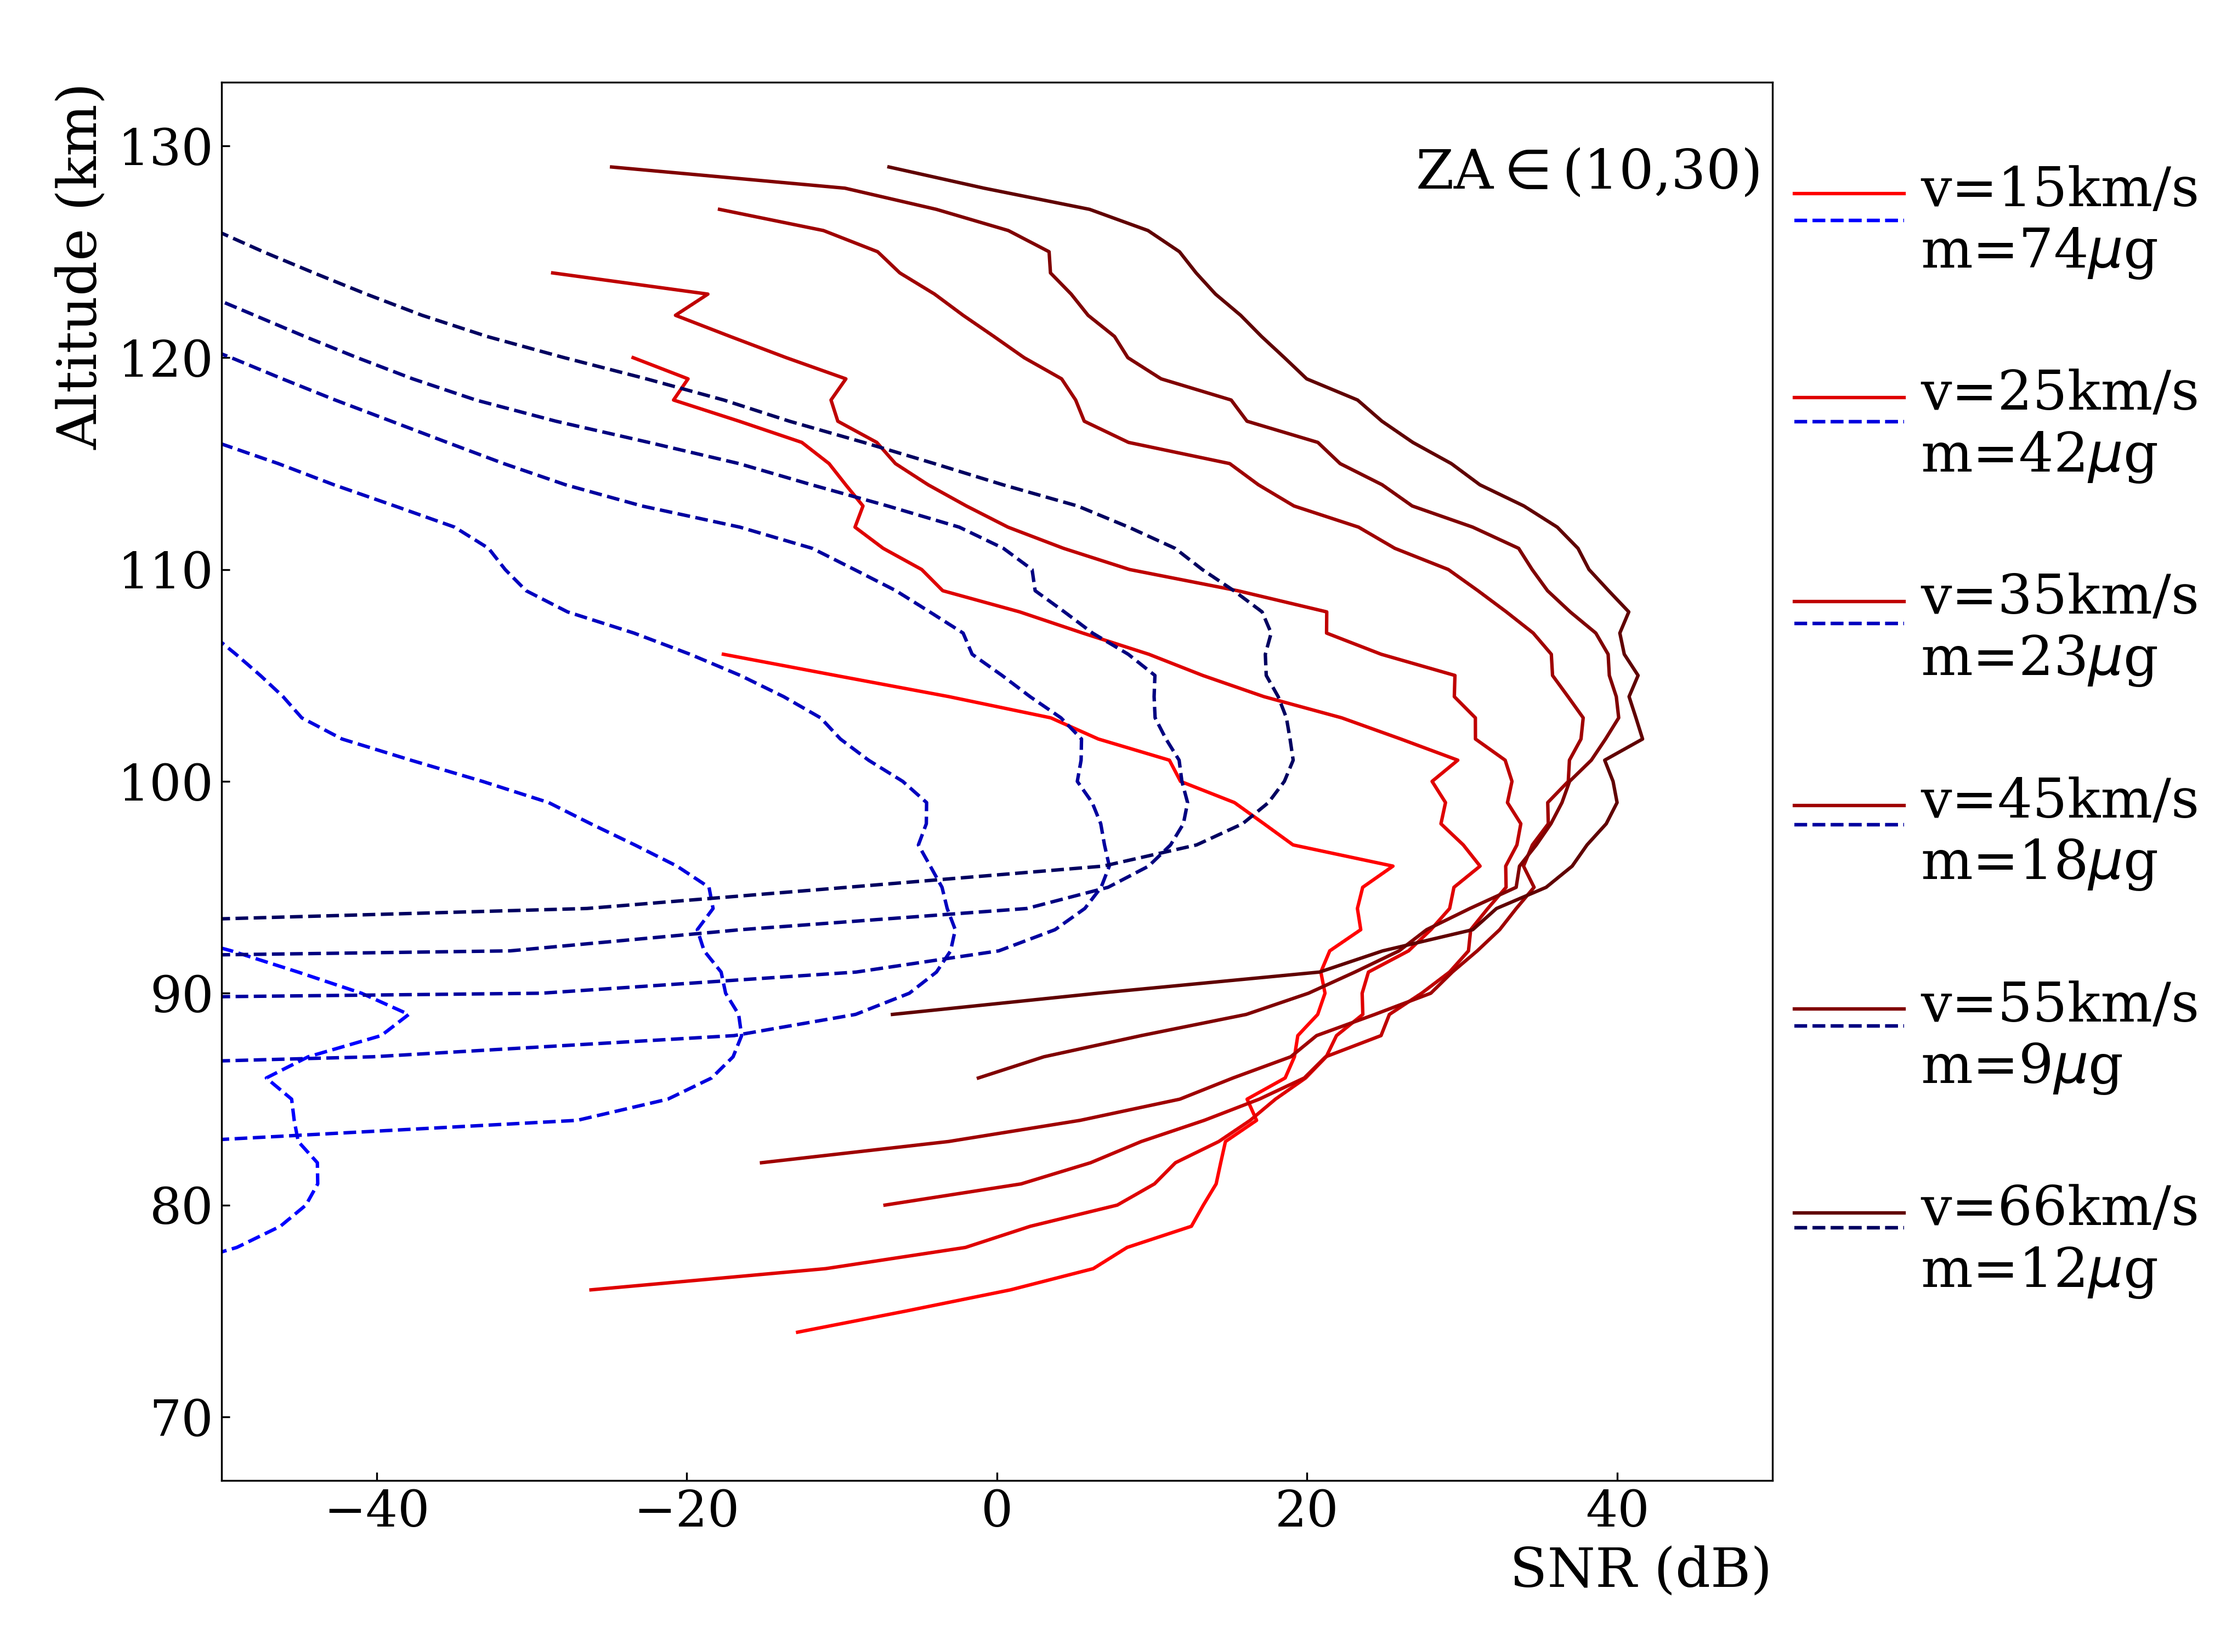
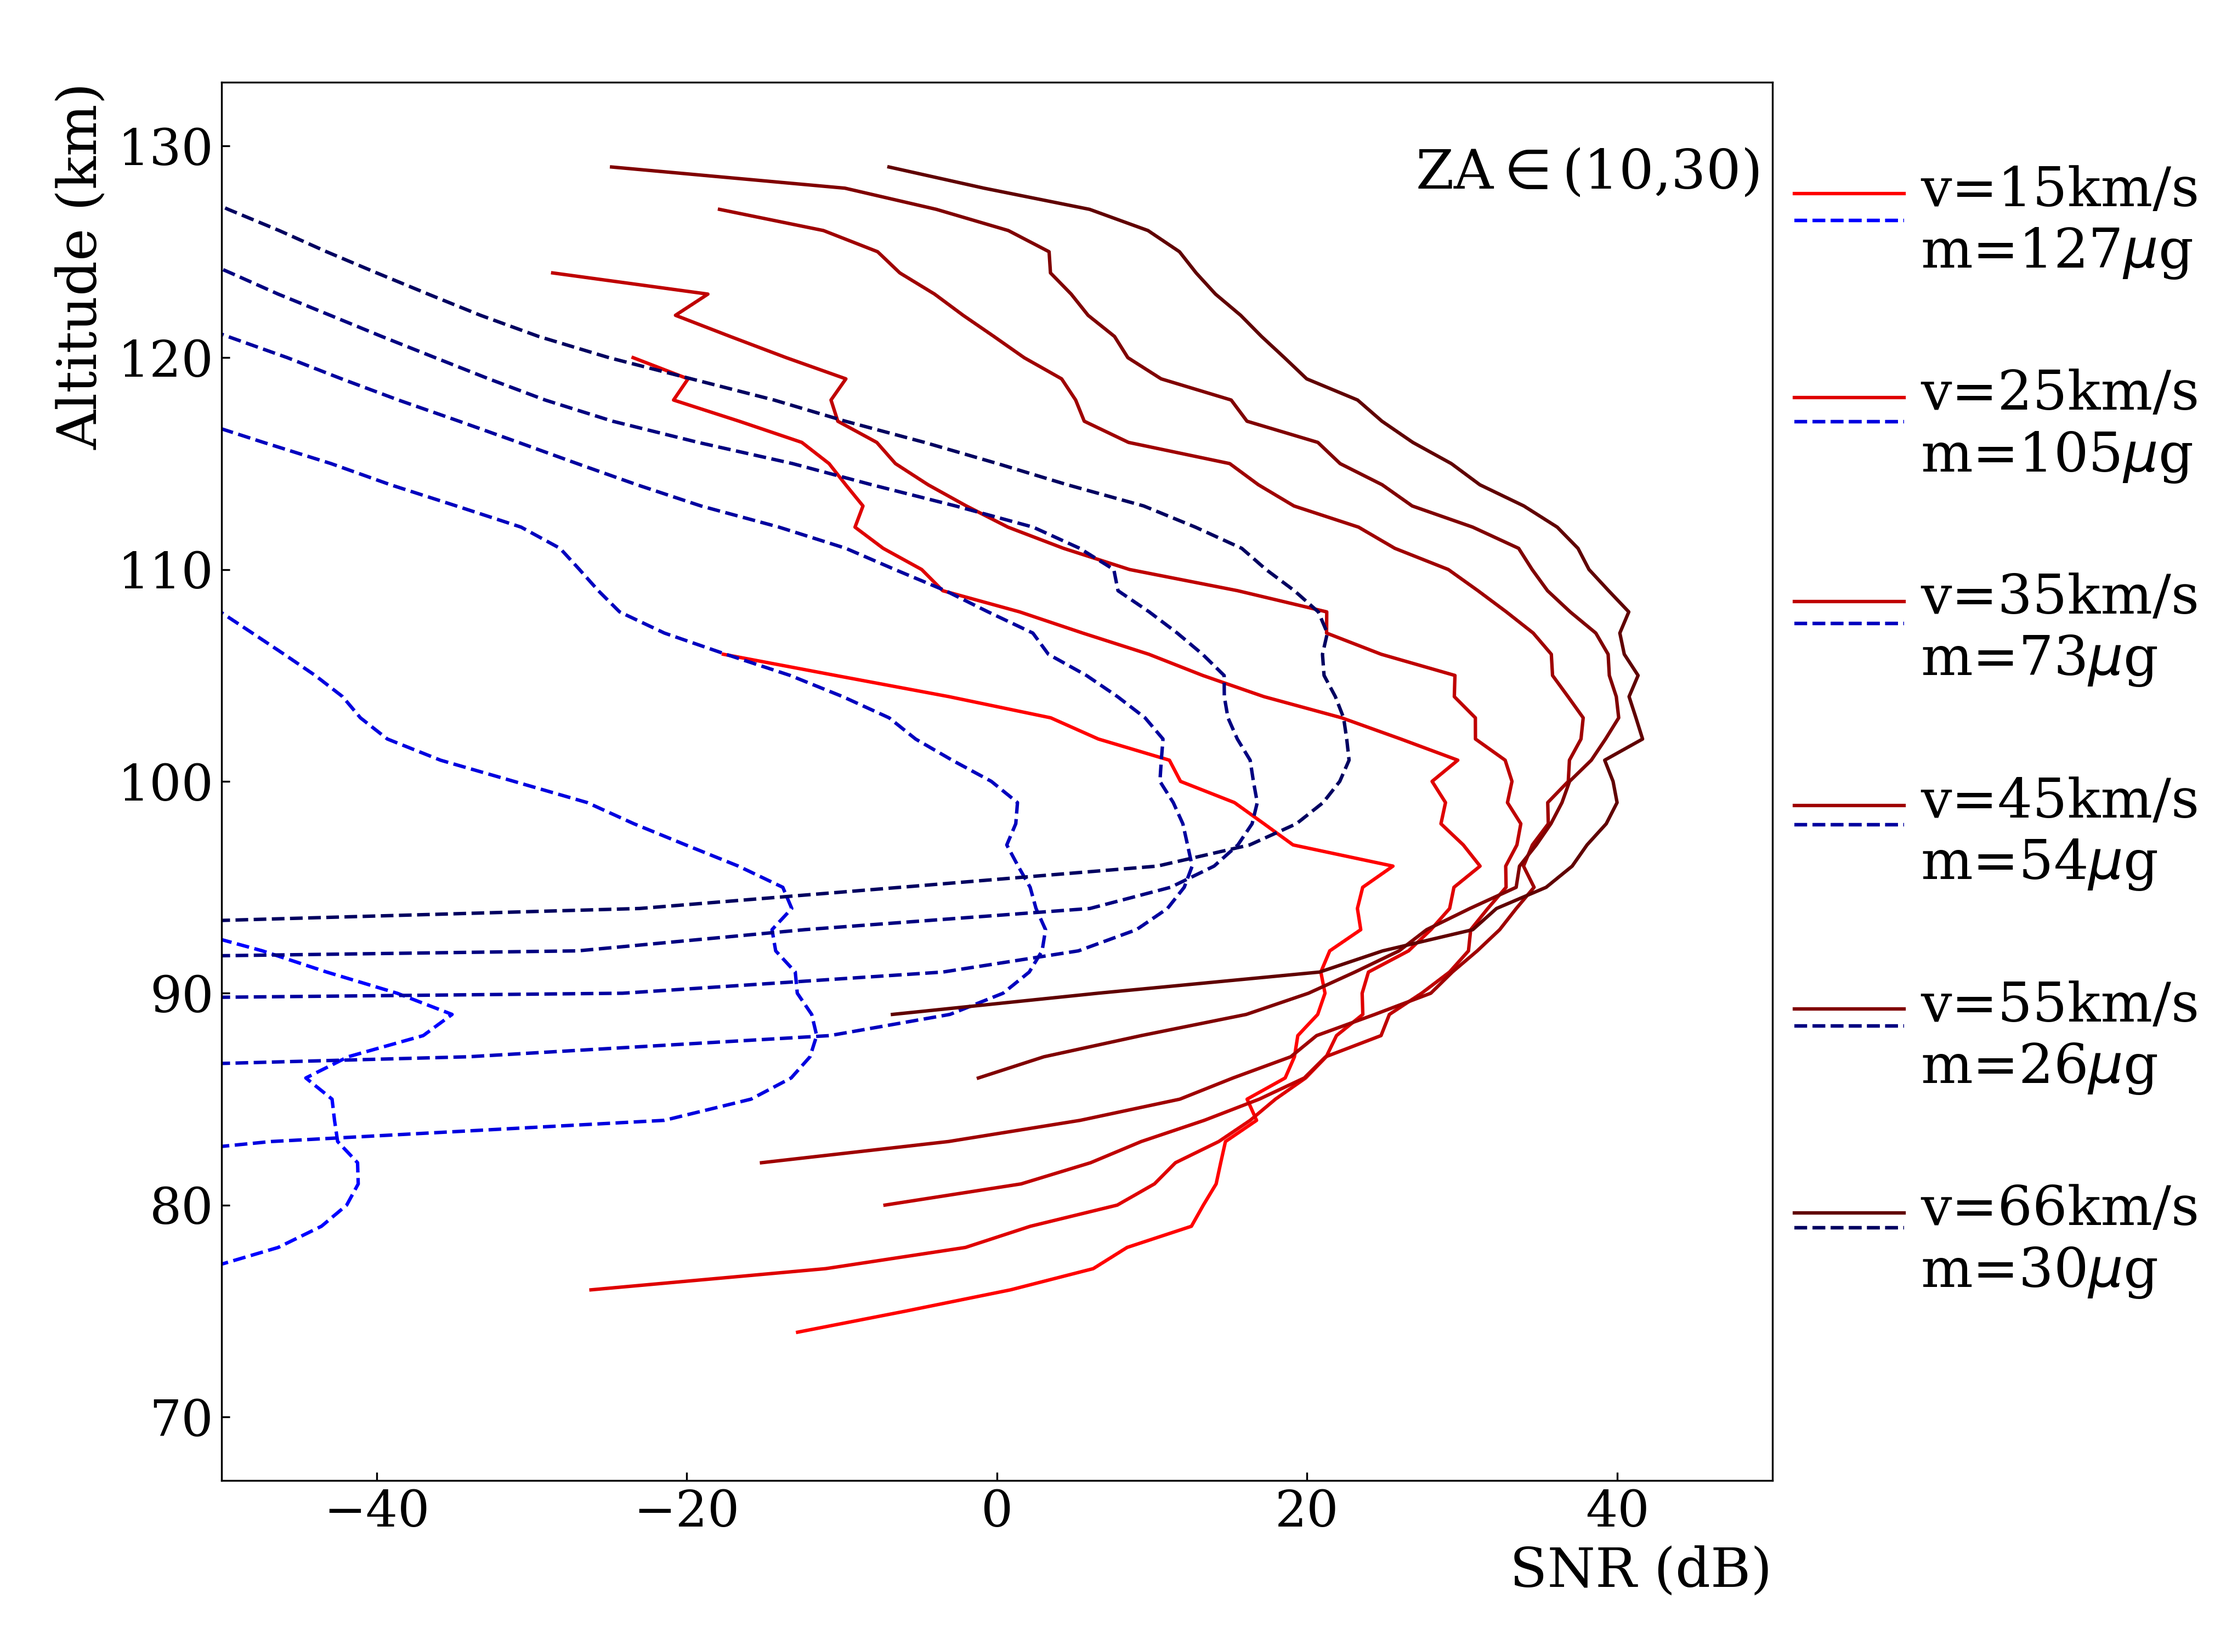
asdf

diff --git a/compare.py b/compare.py
@@ -422,7 +422,7 @@ def compare_all():
     vels = ['10', '20', '30', '40', '50', '60']
     v2s = ['20', '30', '40', '50', '60', '73']
     zas = ['0', '10', '30', '50', '70','90']
-    with h5py.File('/home/hakon/Documents/abmod/counts.h5', 'r') as hf:
+    with h5py.File('/home/hakon/Documents/abmod/counts_400.h5', 'r') as hf:
         counts = hf['counts'][()]
     all_abmod = np.zeros((1,61))
     all_snr = np.zeros((1,61))
@@ -483,7 +483,7 @@ def compare_vels():
     vels = ['10', '20', '30', '40', '50', '60']
     v2s = ['20', '30', '40', '50', '60', '73']
     zas = ['0', '10', '30', '50', '70','90']
-    with h5py.File('/home/hakon/Documents/abmod/counts.h5', 'r') as hf:
+    with h5py.File('/home/hakon/Documents/abmod/counts_400.h5', 'r') as hf:
         counts = hf['counts'][()]
 
 

diff --git a/extra.py b/extra.py
@@ -57,7 +57,7 @@ for f in files:
             continue
 
 
-density = 1000
+density = 400
 radii = bcs/density
 volume = (4/3)*np.pi*radii**3
 mass = density*volume*1e9
@@ -92,7 +92,7 @@ for i in tqdm(range(len(vels))):
                     for l in range(45):
                         if mass[i] >= mbins[l] and mass[i] < mbins[l+1]:
                             counts[j][k][l] += 1
-with h5py.File('/home/hakon/Documents/abmod/counts.h5', 'w') as hf:
+with h5py.File('/home/hakon/Documents/abmod/counts_400.h5', 'w') as hf:
     hf.create_dataset('counts', data=counts)
 
 
